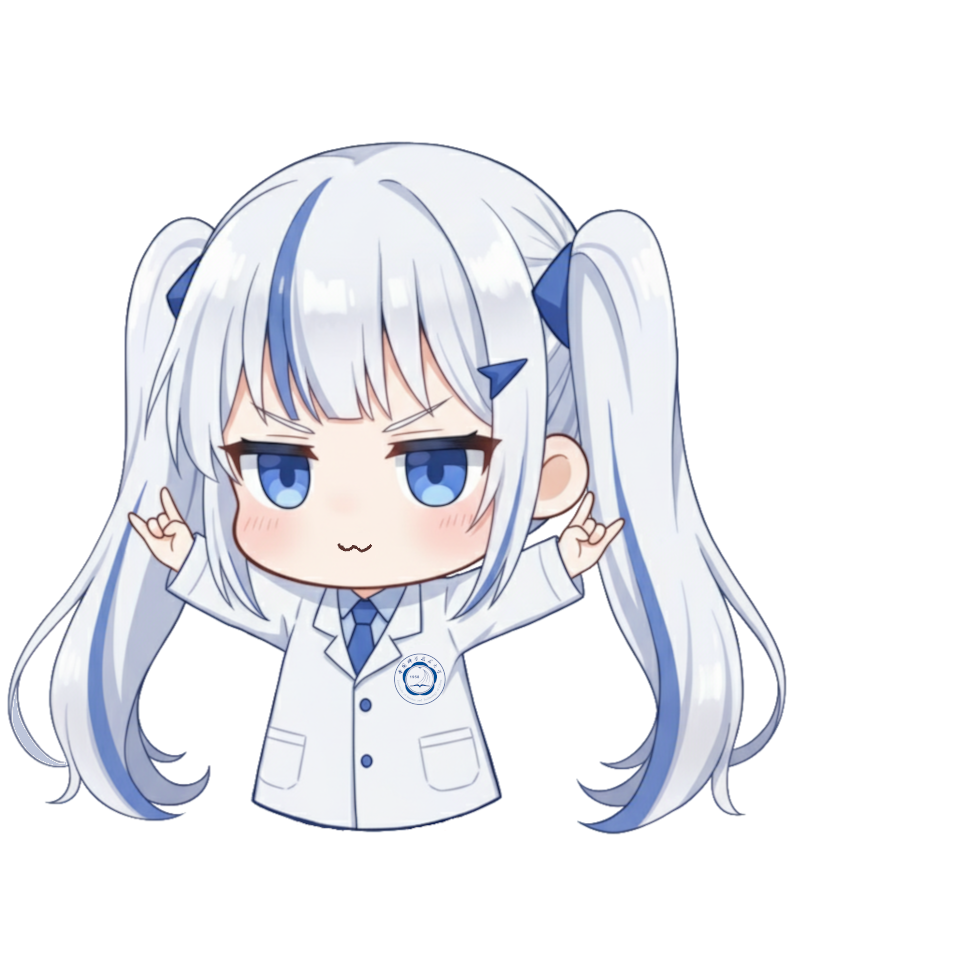
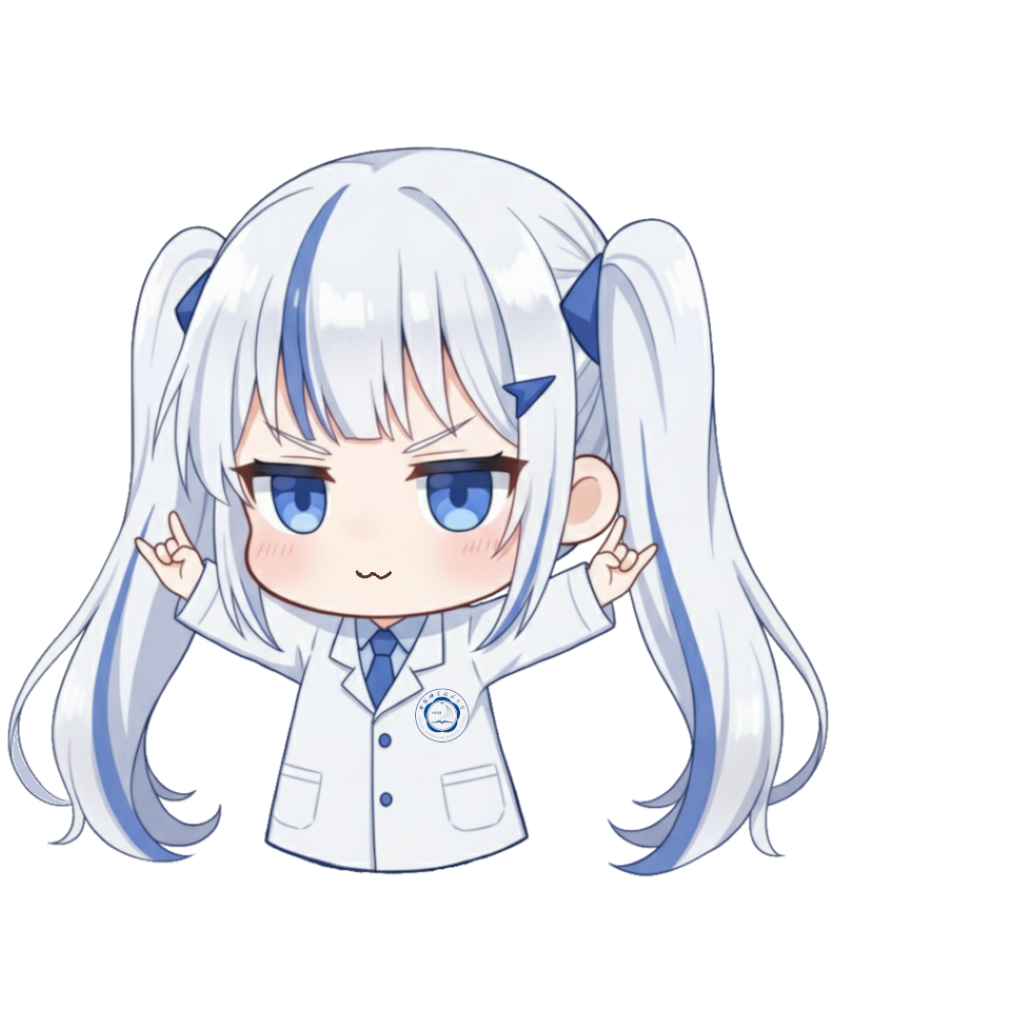
修改1024x1024分辨率以及杂项

diff --git a/README.md b/README.md
@@ -1,4 +1,5 @@
+<div align="center">
 
-# 你的科大 for HarmonyOS NEXT
+# <image src="AppScope/resources/base/media/icon_round.png" height="28" width="28"/> 你的科大 for HarmonyOS NEXT
 
-你的科大 for HarmonyOS NEXT
+</div>
